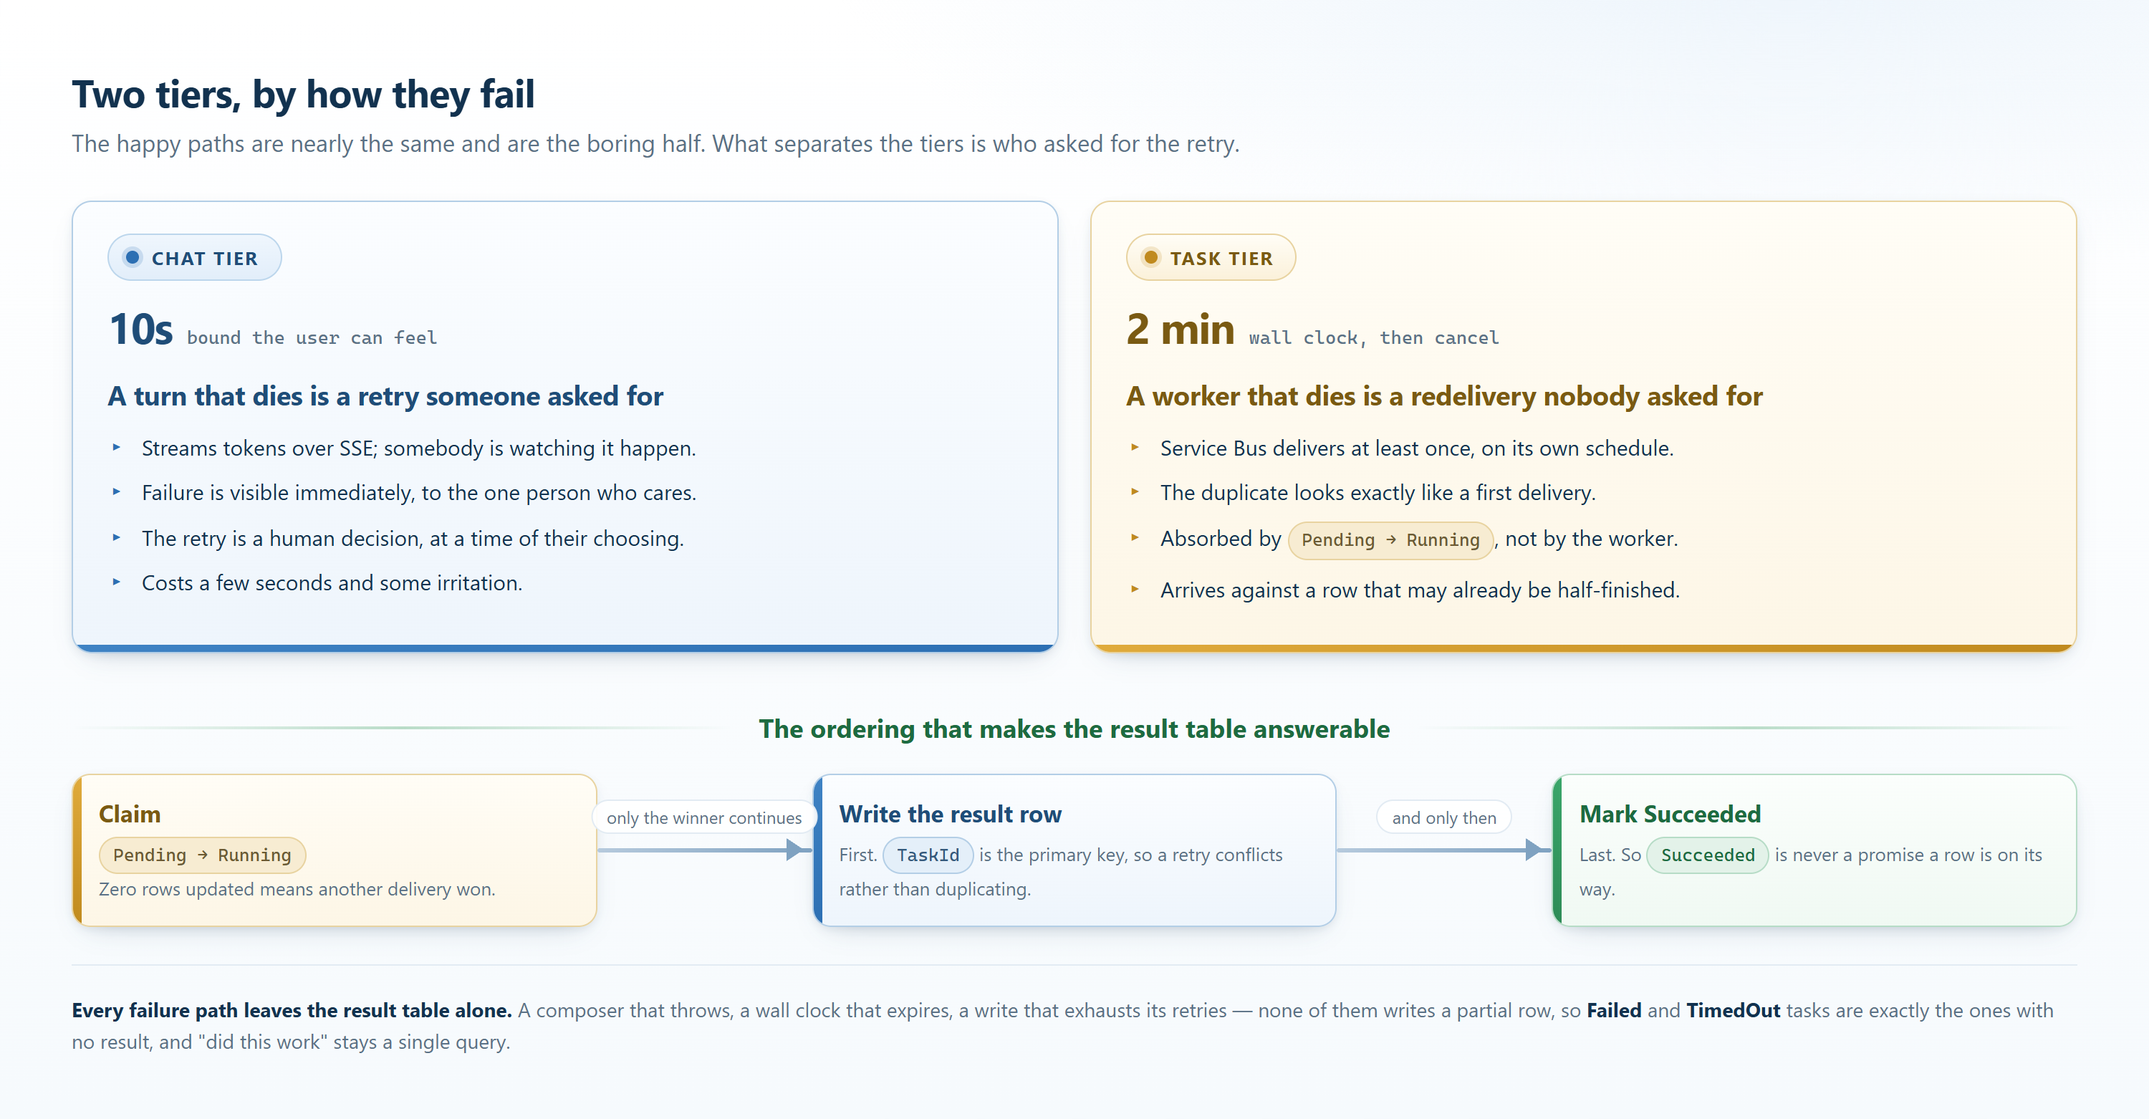
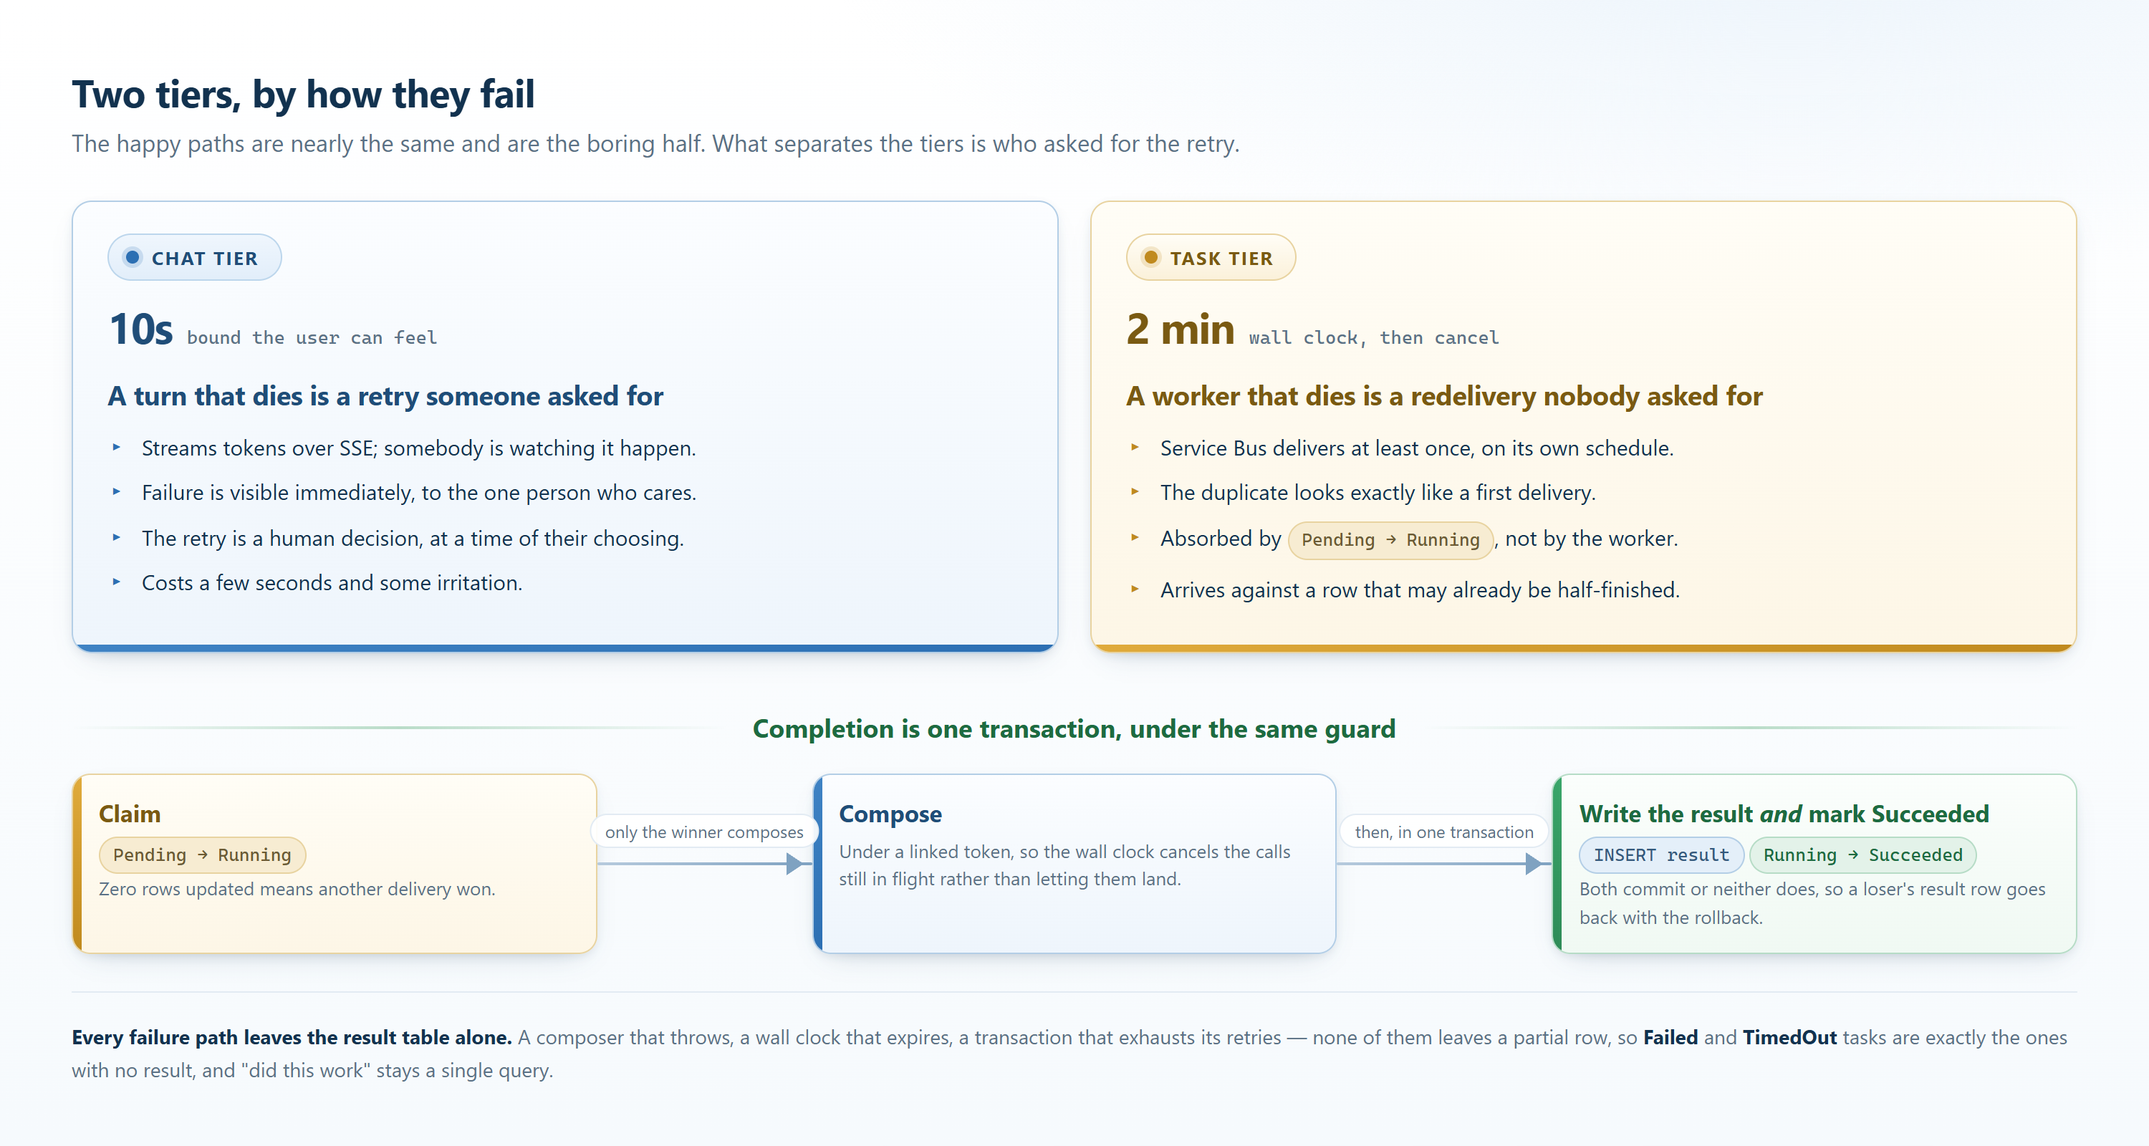
Collapse task completion into one transaction
The requirement changed before this article: the result write and the
status change are a single transactional procedure rather than two
ordered writes. That makes the result-row invariant hold in both
directions instead of one, and folds deduplication and atomicity into
the same guard.

- New sample 03, usp_AiTask_CompleteWithResult: guarded transition and
  the result insert in one transaction, so a losing transition rolls its
  own result row back.
- Drop Running -> Succeeded from the transition procedure's legal list.
  The only path to Succeeded now writes the result alongside it.
- Worker completes in one call; the separate result store is gone.
- Redraw the two-tiers flow band as claim, compose, one transaction.
- Split the result section in two - it ran to 598 words - and cut the
  two paragraphs that had started restating the figure's own note.

diff --git a/ten-second-budget/support-files/two-tiers.html b/ten-second-budget/support-files/two-tiers.html
@@ -10,6 +10,11 @@
   are nearly identical and are the boring half - what separates the tiers is who
   asks for the retry, and whether anybody is watching when it arrives.
 
+  The flow band under the divider is the task tier's completion, and its point
+  is that the last step is one box rather than two. An earlier version drew the
+  result write and the status change as separate nodes, which is what the system
+  used to do; the gap between those two boxes was the whole problem.
+
   Render, from support-files/:
     node local/render-figure.js two-tiers.html local/two-tiers.png
     magick local/two-tiers.png -quality 92 -define webp:method=6 ../two-tiers.webp
@@ -61,30 +66,30 @@
 
   </div>
 
-  <div class="divider"><span class="divider-text">The ordering that makes the result table answerable</span></div>
+  <div class="divider"><span class="divider-text">Completion is one transaction, under the same guard</span></div>
 
   <div class="flow">
     <div class="node amber">
       <div class="node-name">Claim</div>
       <div class="node-meta"><span class="pill amber">Pending &rarr; Running</span><br>Zero rows updated means another delivery won.</div>
     </div>
-    <div class="arrow wide"><span class="arrow-label">only the winner continues</span></div>
+    <div class="arrow wide"><span class="arrow-label">only the winner composes</span></div>
     <div class="node">
-      <div class="node-name">Write the result row</div>
-      <div class="node-meta">First. <span class="pill">TaskId</span> is the primary key, so a retry conflicts rather than duplicating.</div>
+      <div class="node-name">Compose</div>
+      <div class="node-meta">Under a linked token, so the wall clock cancels the calls still in flight rather than letting them land.</div>
     </div>
-    <div class="arrow wide"><span class="arrow-label">and only then</span></div>
+    <div class="arrow wide"><span class="arrow-label">then, in one transaction</span></div>
     <div class="node green">
-      <div class="node-name">Mark Succeeded</div>
-      <div class="node-meta">Last. So <span class="pill green">Succeeded</span> is never a promise a row is on its way.</div>
+      <div class="node-name">Write the result <i>and</i> mark Succeeded</div>
+      <div class="node-meta"><span class="pill">INSERT result</span> <span class="pill green">Running &rarr; Succeeded</span><br>Both commit or neither does, so a loser's result row goes back with the rollback.</div>
     </div>
   </div>
 
   <div class="fig-note">
     <b>Every failure path leaves the result table alone.</b> A composer that throws, a
-    wall clock that expires, a write that exhausts its retries — none of them writes a
-    partial row, so <b>Failed</b> and <b>TimedOut</b> tasks are exactly the ones with no
-    result, and "did this work" stays a single query.
+    wall clock that expires, a transaction that exhausts its retries — none of them
+    leaves a partial row, so <b>Failed</b> and <b>TimedOut</b> tasks are exactly the ones
+    with no result, and "did this work" stays a single query.
   </div>
 
 </body>

diff --git a/ten-second-budget/code-samples/04-structured-report-worker.cs b/ten-second-budget/code-samples/04-structured-report-worker.cs
@@ -1,18 +1,18 @@
 // The worker. Service Bus triggered, one task per message.
 //
-// Read the order of the last two calls in the happy path: the result row is
-// written first, and only then is the task marked Succeeded. That direction is
-// what makes "a result row exists if and only if the task succeeded" true from
-// the reader's side. Succeeded is the last thing that happens, so a status of
-// Succeeded is never a promise the result is on its way.
+// The happy path is three calls: claim the row, compose the report, complete.
+// Completion is one call because it is one transaction - the result row and the
+// move to Succeeded commit together or neither of them happens. That is what
+// makes "a result row exists if and only if the task succeeded" true in both
+// directions rather than only one.
 //
-// Be precise about what that buys, because it is a convention and not a
-// database guarantee. Two tables are written in two transactions, so the
-// invariant holds because of the ordering plus the two rules below - the PK
-// conflict is treated as already-written, and nothing after a successful result
-// write is allowed to terminalize the task as Failed. If the two tables share a
-// database, one procedure holding both writes is strictly better and this file
-// is the wrong shape.
+// An earlier version wrote the result and then transitioned separately, in that
+// order. Ordering buys the direction that matters most - Succeeded is never a
+// promise a row is on its way - and cannot buy the other one. A worker that
+// died between the two writes left a result row on a task still marked Running,
+// which the recovery sweep then had to know about. One transaction retires that
+// whole class of problem, at the cost of requiring both tables to share a
+// database.
 //
 // The budget is a linked token, not a timer the composer is asked to respect.
 // Nothing downstream has to cooperate for it to hold, which is the same reason
@@ -21,10 +21,7 @@
 //
 // Known limit: a worker that dies after claiming leaves the task in Running,
 // and the redelivery finds nothing to claim, because Running is not Pending.
-// Recovering those rows is a separate mechanism and is not shown here. Note
-// what that mechanism has to do - it must check for a result row before it
-// settles an abandoned task, or it will mark a task Failed that has a result,
-// which is the one state the invariant forbids.
+// Recovering those rows is a separate mechanism and is not shown here.
 
 using System;
 using System.Threading;
@@ -38,7 +35,6 @@ namespace Platform.Ai.Workers;
 public sealed class StructuredReportWorker(
     ITaskStateStore tasks,
     IReportComposer composer,
-    ITaskResultStore results,
     ILogger<StructuredReportWorker> log)
 {
     // Strictly below the host's function timeout, and that margin is the whole
@@ -57,9 +53,8 @@ public sealed class StructuredReportWorker(
 
         if (!claimed)
         {
-            // Two different situations, and only one of them is routine.
-            // Distinguishing them needs the row's current status back from the
-            // transition; logged apart because the second one wants an alert.
+            // The routine case: a duplicate delivery arriving at a row that is
+            // no longer Pending. Nothing to undo, because nothing was done.
             log.LogInformation(
                 "Task {TaskId} was not Pending; dropping delivery.", kickoff.TaskId);
             return;
@@ -72,14 +67,28 @@ public sealed class StructuredReportWorker(
         {
             var payload = await composer.ComposeAsync(kickoff, budget.Token);
 
-            // CancellationToken.None from here down. Everything below is what
-            // makes the invariant true, and none of it may be abandoned partway
-            // because the host started draining.
-            await WriteResultAsync(kickoff.TaskId, payload);
+            // CancellationToken.None on purpose. This call is what makes the
+            // invariant true and it may not be abandoned partway because the
+            // host started draining.
+            var completion = await tasks.CompleteWithResultAsync(
+                kickoff.TaskId,
+                new TaskResultEnvelope<StructuredReportPayload>(
+                    Kind: "StructuredReport",
+                    Version: 1,
+                    Payload: payload),
+                CancellationToken.None);
 
-            await tasks.TryTransitionAsync(
-                kickoff.TaskId, AiTaskStatus.Running, AiTaskStatus.Succeeded,
-                reason: null, CancellationToken.None);
+            if (!completion.Transitioned)
+            {
+                // The row was not Running by the time the report was finished.
+                // The transaction rolled back, so there is nothing to clean up -
+                // but the status it came back with is worth reading. Failed or
+                // TimedOut means a sweep settled a task this worker was still
+                // working on, and the budget is not doing its job.
+                log.LogWarning(
+                    "Task {TaskId} was {Status} at completion; result discarded.",
+                    kickoff.TaskId, completion.CurrentStatus);
+            }
         }
         catch (OperationCanceledException) when (cancellationToken.IsCancellationRequested)
         {
@@ -99,32 +108,12 @@ public sealed class StructuredReportWorker(
         }
     }
 
-    // A PK conflict means a previous attempt already wrote this exact result.
-    // That is the retry succeeding, not the retry failing, and treating it as an
-    // error is what would put a result row on a Failed task.
-    private async Task WriteResultAsync(Guid taskId, StructuredReportPayload payload)
-    {
-        try
-        {
-            await results.WriteAsync(
-                new TaskResultEnvelope<StructuredReportPayload>(
-                    Kind: "StructuredReport",
-                    Version: 1,
-                    Payload: payload),
-                taskId,
-                CancellationToken.None);
-        }
-        catch (DuplicateTaskResultException)
-        {
-            log.LogInformation("Result for {TaskId} was already written.", taskId);
-        }
-    }
-
     // CancellationToken.None on purpose: the terminal status has to be recorded
     // even when the reason for recording it is that everything else was
     // canceled. Retried by the store's transient policy, and if that is
     // exhausted the row stays Running rather than lying about the outcome - a
-    // database too sick to take the result write will not take this one either.
+    // database too sick to take the completing transaction will not take this
+    // one either.
     private Task MarkAsync(Guid taskId, AiTaskStatus status, string reason) =>
         tasks.TryTransitionAsync(taskId, AiTaskStatus.Running, status, reason, CancellationToken.None);
 }

diff --git a/ten-second-budget/README.md b/ten-second-budget/README.md
@@ -32,21 +32,29 @@ nobody asked for — and this is the set of invariants that survive it.
   nothing, and `@@ROWCOUNT` is the whole answer. A redelivered message asks for
   `Pending → Running` against a row already `Running`, gets zero back, and
   returns. Losing that race is not an error and does not `THROW`.
-- **A result row exists if and only if the task succeeded.** The result is
-  written first and the status is marked `Succeeded` second, so `Succeeded` is
-  never a promise a row is on its way. Every failure path leaves the result table
-  alone, which keeps "did this work" a single query.
-- **That invariant is a convention, not a database guarantee.** Two tables in two
-  transactions means the ordering holds it up, plus two rules: a `TaskId` PK
-  conflict is treated as already-written rather than as an error, and nothing
-  after a successful result write may terminalize the task as `Failed`. If both
-  tables live in one database, a single procedure holding both writes is
-  strictly better than the ordering discipline.
-- **The uncomfortable half.** A transient failure on the result write is retried,
-  and when the retries are exhausted a completed report is thrown away rather
-  than written somewhere the invariant does not cover. The row stays `Running` —
-  a database too sick to take the result write will not record a clean `Failed`
-  either.
+- **A result row exists if and only if the task succeeded.** Every failure path
+  leaves the result table alone, so `Failed` and `TimedOut` tasks are exactly the
+  ones with no result and "did this work" stays a single query.
+- **Ordering only reaches one direction; a transaction reaches both.** The first
+  version wrote the result and then transitioned, which makes `Succeeded` the
+  last thing that happens and cannot say anything about a worker dying in the
+  gap. Both writes are one procedure and one transaction now — the result row and
+  `Running → Succeeded` commit together or neither does.
+- **Deduplication and atomicity turn out to be the same mechanism.** The guarded
+  transition sits inside the completing transaction, so a duplicate that got as
+  far as a composed report loses the transition, reads zero back, and takes its
+  own result row down with the rollback — without needing to work out that it was
+  a duplicate.
+- **`Running → Succeeded` is not in the transition procedure's legal list.** The
+  only path to `Succeeded` is the procedure that writes the result alongside it,
+  which is what turns the invariant from a rule a worker follows into a shape the
+  schema will not let you express. What it costs is that one transaction means
+  one database.
+- **The uncomfortable half.** A transient failure on the completing transaction
+  is retried, and when the retries are exhausted a completed report is thrown
+  away rather than written somewhere the invariant does not cover. The row stays
+  `Running` — a database too sick to take that commit will not record a clean
+  `Failed` either.
 - **The envelope carries a version because the rows outlive the renderer.** A
   result row is written once and read for as long as the conversation exists, so
   the table is a permanent record of every payload shape ever emitted. Versioning
@@ -58,11 +66,12 @@ nobody asked for — and this is the set of invariants that survive it.
 |---|---|
 | [`header-ten-second-budget.png`](header-ten-second-budget.png) / [`.webp`](header-ten-second-budget.webp) | Header image, 1600x800. Authored HTML rendered through headless Chrome — no image model. Source in [`support-files/header-ten-second-budget.html`](support-files/header-ten-second-budget.html). |
 | [`turn-budget.png`](turn-budget.png) / [`.webp`](turn-budget.webp) | The three bounds drawn to scale against the two-minute loop bound, with the ten-second budget drawn through them. Source in [`support-files/turn-budget.html`](support-files/turn-budget.html). |
-| [`two-tiers.png`](two-tiers.png) / [`.webp`](two-tiers.webp) | The tiers labeled by failure model rather than happy path, and the write ordering that keeps the result table answerable. Source in [`support-files/two-tiers.html`](support-files/two-tiers.html). |
+| [`two-tiers.png`](two-tiers.png) / [`.webp`](two-tiers.webp) | The tiers labeled by failure model rather than happy path, and the single completing transaction that keeps the result table answerable. Source in [`support-files/two-tiers.html`](support-files/two-tiers.html). |
 | [`code-samples/01-task-kickoff-skill.cs`](code-samples/01-task-kickoff-skill.cs) | The kickoff skill. The point of the file is how ordinary it is — no branch, no background-mode flag, nothing for the existing tool-surface controls to miss. The row is created `Pending` before the message is enqueued, and the order is load-bearing. |
-| [`code-samples/02-usp-aitask-updatestatus.sql`](code-samples/02-usp-aitask-updatestatus.sql) | The single state-transition procedure. One guarded `UPDATE`, `@@ROWCOUNT` as the verdict, and no `THROW` on a losing transition. |
-| [`code-samples/03-structured-report-worker.cs`](code-samples/03-structured-report-worker.cs) | The Service Bus triggered worker: claim, compose under a linked wall-clock token, write the result, then mark `Succeeded`. Timeout is distinguished from host shutdown, which should be left to redeliver. |
-| [`code-samples/04-task-result-envelope.cs`](code-samples/04-task-result-envelope.cs) | `{Kind, Version, Payload}`, and the report payload that carries its own classification floor and ceiling because the turn that produced it is gone by the time anyone opens the row. |
+| [`code-samples/02-usp-aitask-updatestatus.sql`](code-samples/02-usp-aitask-updatestatus.sql) | The state-transition procedure. One guarded `UPDATE`, `@@ROWCOUNT` as the verdict, no `THROW` on a losing transition — and no `Running → Succeeded` in its legal list, because that transition belongs to the procedure below. |
+| [`code-samples/03-usp-aitask-completewithresult.sql`](code-samples/03-usp-aitask-completewithresult.sql) | Completion: the result row and the guarded move to `Succeeded` inside one transaction. A losing transition rolls its own result row back, which is the whole duplicate-handling story. |
+| [`code-samples/04-structured-report-worker.cs`](code-samples/04-structured-report-worker.cs) | The Service Bus triggered worker: claim, compose under a linked wall-clock token, complete. Timeout is distinguished from host shutdown, which should be left to redeliver. |
+| [`code-samples/05-task-result-envelope.cs`](code-samples/05-task-result-envelope.cs) | `{Kind, Version, Payload}`, and the report payload that carries its own classification floor and ceiling because the turn that produced it is gone by the time anyone opens the row. |
 
 The `.cs` files are illustrative rather than a compiling set — they reference
 interfaces (`ITaskStateStore`, `IReportComposer`, `ITaskQueue`) that belong to
@@ -76,12 +85,19 @@ that makes duplicate deliveries cheap is the same guard that makes an abandoned
 row unreachable. Recovering those rows is a separate mechanism and is not shown
 in these samples.
 
-That mechanism is load-bearing for the headline invariant, which is why leaving
-it out is a real gap rather than a tidy scope boundary. `succeeded → row exists`
-is guaranteed by the write ordering. `row exists → succeeded` is not: a worker
-can die between the two writes, and a sweeper that settles abandoned `Running`
-rows to `Failed` without first checking for a result row creates precisely the
-state the invariant forbids. The sweeper has to look before it decides.
+Collapsing the two writes into one transaction took the sharp edge off that. The
+earlier version had to worry that a sweeper settling an abandoned `Running` row
+to `Failed` was settling a task that had already written its result — the one
+state the invariant forbids — and so the sweeper had to look before it decided.
+That state is no longer reachable, because nothing writes a result without
+moving the status in the same transaction.
+
+What is left is a timing question rather than a consistency one. A sweep that
+settles a task while its worker is still composing corrupts nothing: the
+worker's completion loses the guarded transition and rolls its own result back.
+It does throw away finished work. That makes the gap between the worker's budget
+and the sweep's patience a number worth picking deliberately, which is why
+sample 04 logs when it loses that race instead of swallowing it.
 
 ## License
 
